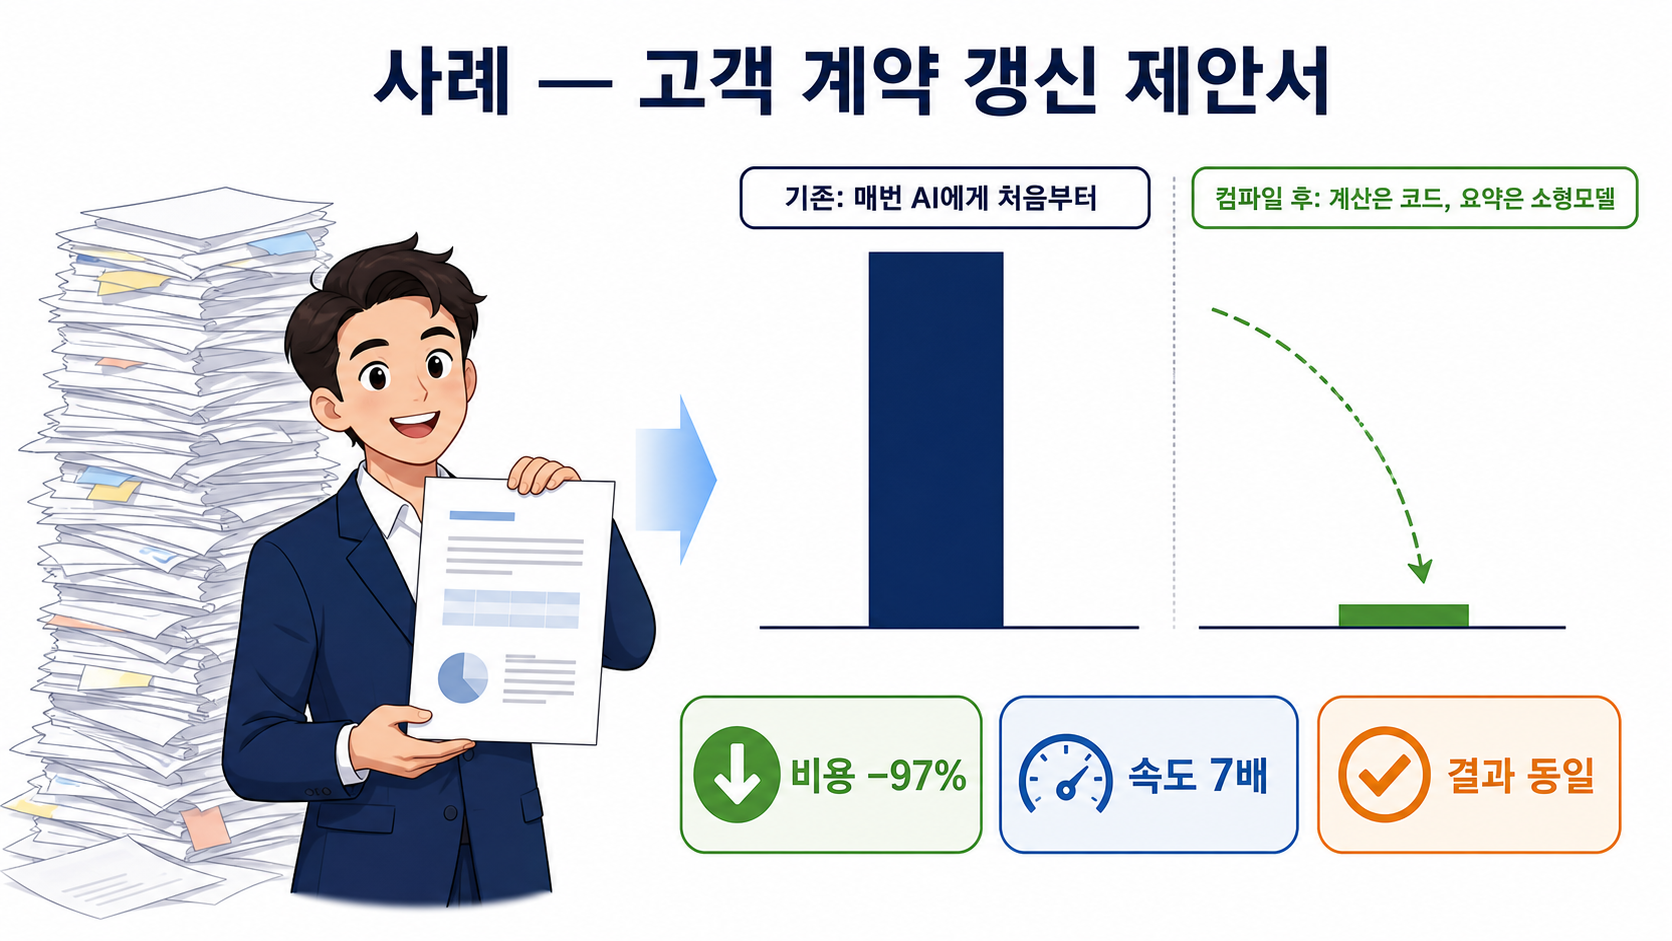
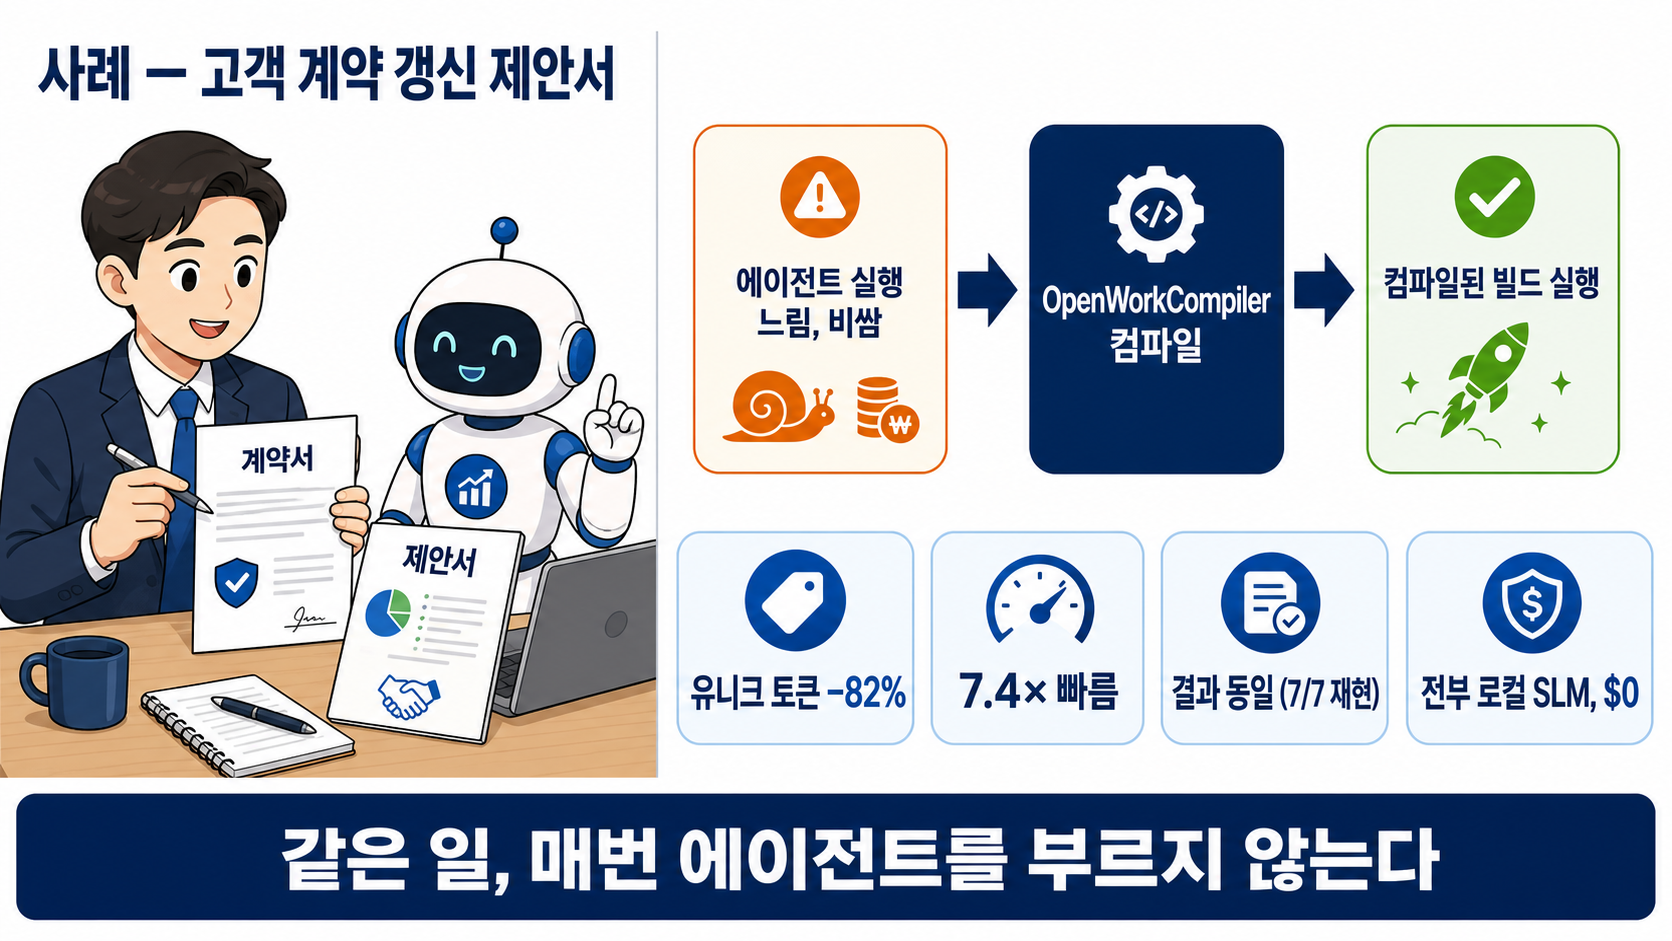
docs: regenerate the renewal-case infographic on the unique-token basis (−82%, 7.4×, 7/7)
Claude-Session: https://claude.ai/code/session_01U3Gpx6CuKwPNkgvMTyzi7V

diff --git a/README.en.md b/README.en.md
@@ -95,7 +95,7 @@ A **real interactive Codex session**, not a mock-up. Install `owc` with one line
 
 The shell steps (`shell_sed`, `shell_python3`, `shell_find`, `shell_curl`) lowered to the code tier and replayed with zero tokens in tens of milliseconds (compile and search output identical; the proxy trace-list `curl` differs per session and is reported as a mismatch); the remaining cost is the final summary (`respond`), which steps 5–6 of the recording **promote to a local `qwen2.5:7b`** (6,551 tokens, $0, gate 2/2 PASS) — on the same session `qwen2.5:3b` left a placeholder and was rejected by the gate.
 
-<p align="center"><img src="docs/images/case-renewal.png" alt="Case — customer renewal proposal: −97% cost, 7× faster, identical outputs" width="840"></p>
+<p align="center"><img src="docs/images/case-renewal.png" alt="Case — customer renewal proposal: −82% unique tokens, 7.4× faster, identical outputs (7/7 reproduced), all on a local SLM at $0" width="840"></p>
 
 **A real business task — customer contract renewal proposal** ([`examples/customer-renewal/TASK.md`](examples/customer-renewal/TASK.md): verify the active CRM contract → aggregate 3 months of usage → price with the current policy → write the proposal and pricing JSON; artifacts in [`examples/demo/customer-renewal-bench/`](examples/demo/customer-renewal-bench/)):
 

diff --git a/README.md b/README.md
@@ -95,7 +95,7 @@ flowchart LR
 
 셸 스텝(`shell_sed`, `shell_python3`, `shell_find`, `shell_curl`)은 code 계층으로 내려가 토큰 0·수십 ms에 재실행됐고(컴파일·탐색 출력은 그대로 일치, 프록시 트레이스 목록 `curl`은 세션마다 내용이 달라 불일치로 표시), 남은 비용은 최종 요약(`respond`)뿐인데, 이 스텝은 녹화의 5–6단계에서 **로컬 `qwen2.5:7b`로 승격**되어 실행됩니다(6,551 토큰, $0, 게이트 2/2 PASS) — 같은 세션에서 `qwen2.5:3b`는 자리표시자를 남겨 게이트에 거부됐습니다.
 
-<p align="center"><img src="docs/images/case-renewal.png" alt="사례 — 고객 계약 갱신 제안서: 비용 −97%, 속도 7배, 결과 동일" width="840"></p>
+<p align="center"><img src="docs/images/case-renewal.png" alt="사례 — 고객 계약 갱신 제안서: 유니크 토큰 −82%, 7.4× 빠름, 결과 동일(7/7 재현), 전부 로컬 SLM $0" width="840"></p>
 
 **실제 업무 작업 — 고객 계약 갱신 제안서** ([`examples/customer-renewal/TASK.md`](examples/customer-renewal/TASK.md): CRM 활성 계약 확인 → 3개월 사용량 집계 → 현행 가격정책으로 산정 → 제안서·가격 JSON 작성; 원본은 [`examples/demo/customer-renewal-bench/`](examples/demo/customer-renewal-bench/)):
 
